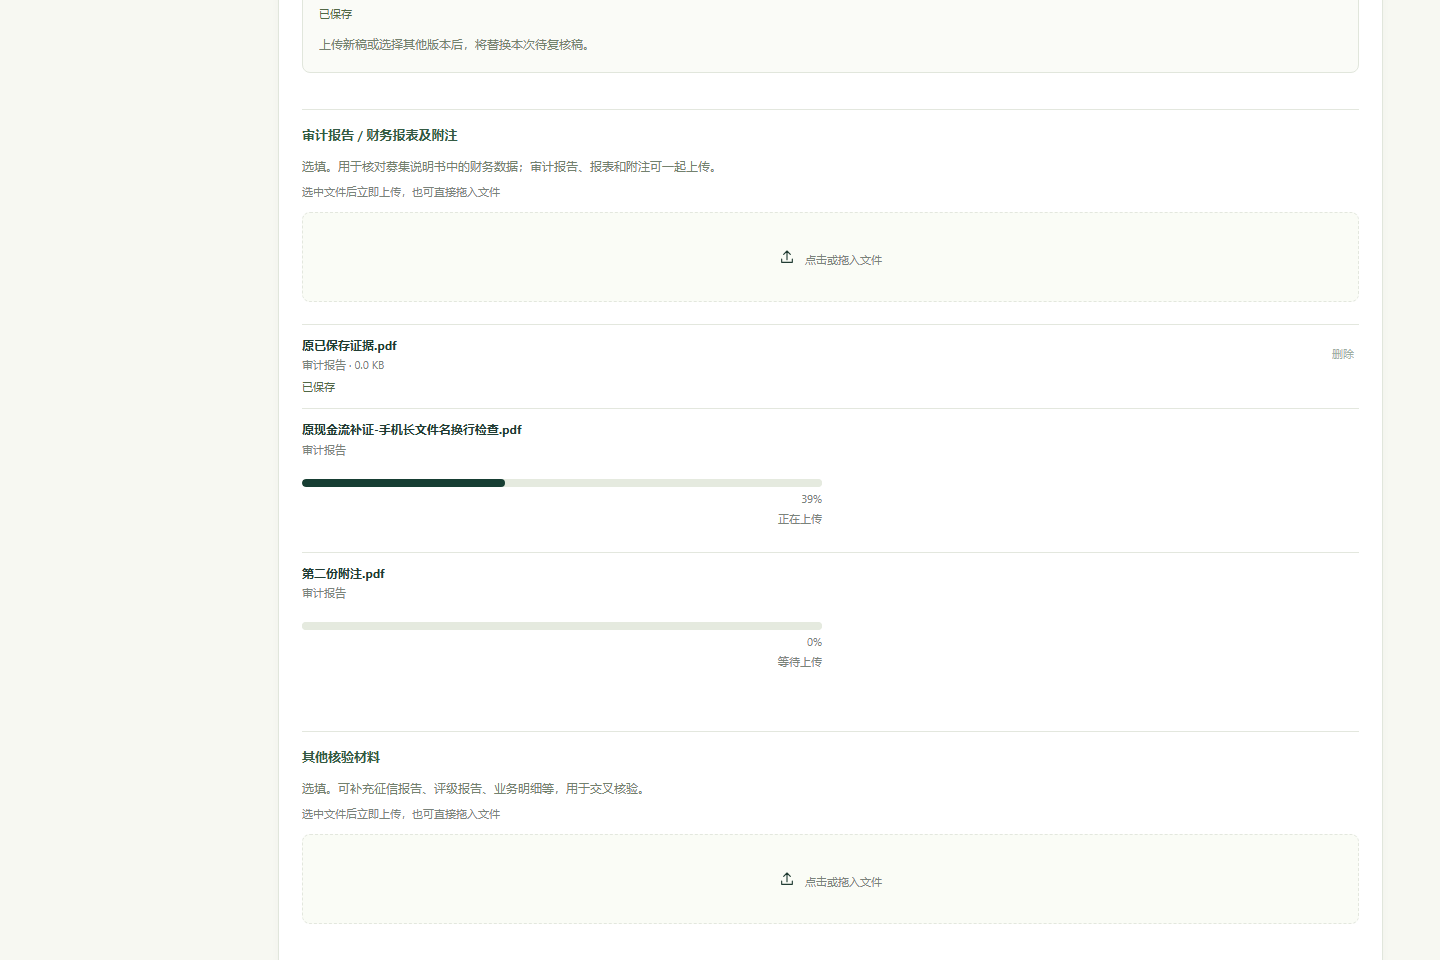
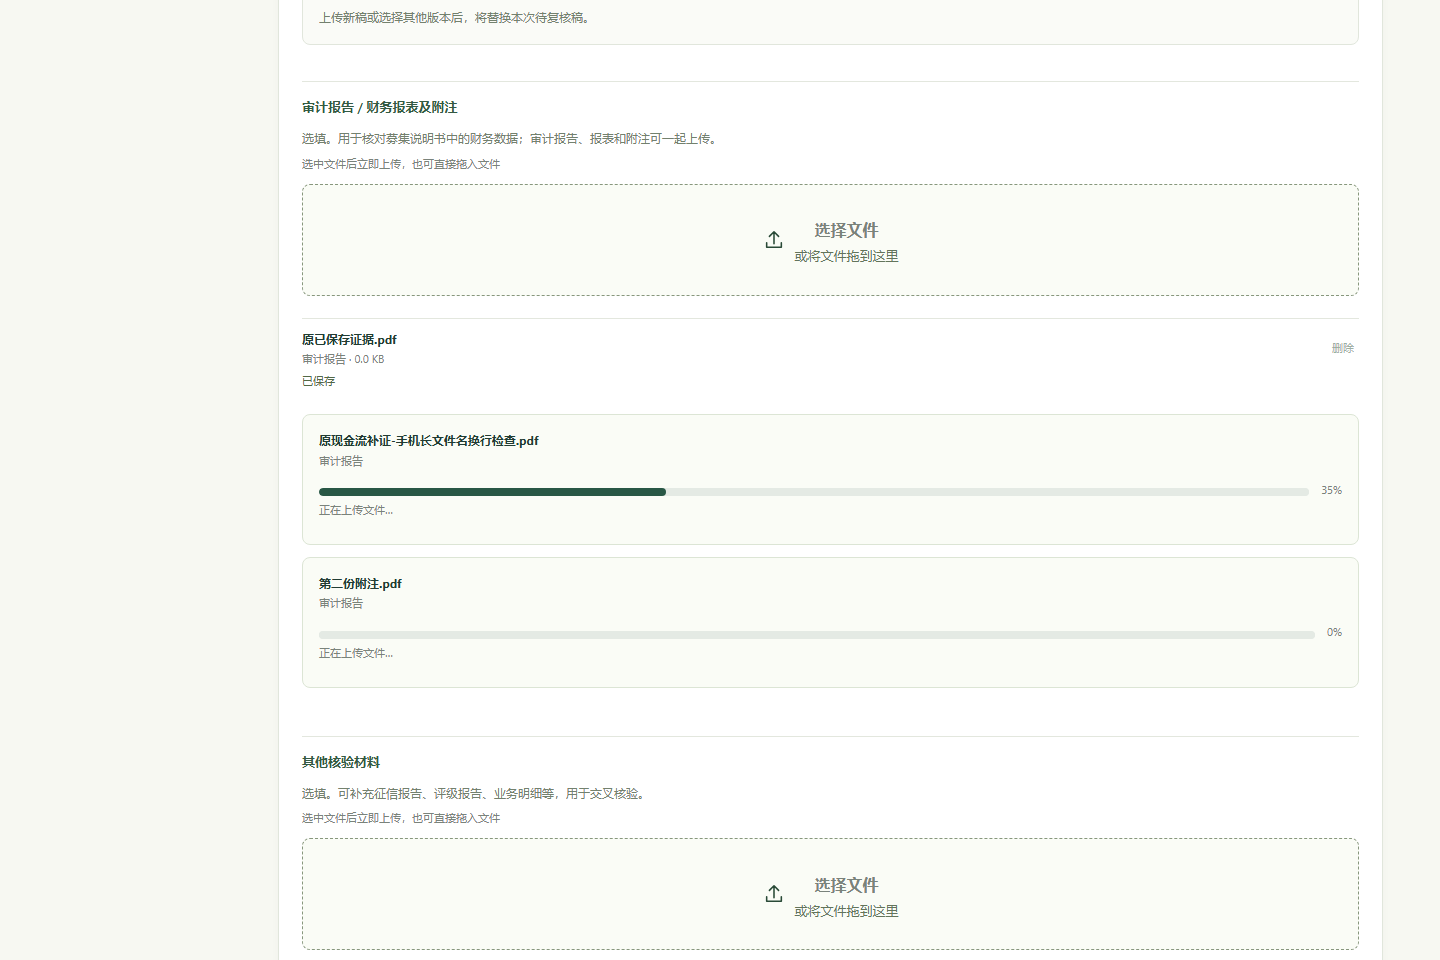
docs: record unified upload validation and screenshots

diff --git a/apps/web/test-evidence/all-upload-progress/README.md b/apps/web/test-evidence/all-upload-progress/README.md
@@ -14,7 +14,7 @@
 
 ## 页面与原型
 
-原基线为 develop `4c2c1273`。本PR同时更新 `product-prototype/public/upload-progress.html`、`prospectus-panel.html` 和共用CSS；用户2026-11-13的请求为本次状态变化依据。仅统一上传反馈，不改业务版本采用或生成流程。
+原基线为 develop `4c2c1273`；原型与实现的受测代码均固定在 `c0d964e47991765013b637bb13a22832536b1dc8`，随后提交只补充证据登记。本PR同时更新 `product-prototype/public/upload-progress.html`、`prospectus-panel.html` 和共用CSS；用户2026-11-13的请求为本次状态变化依据。仅统一上传反馈，不改业务版本采用或生成流程。
 
 同尺寸证据（1440×960及390×960）：
 
